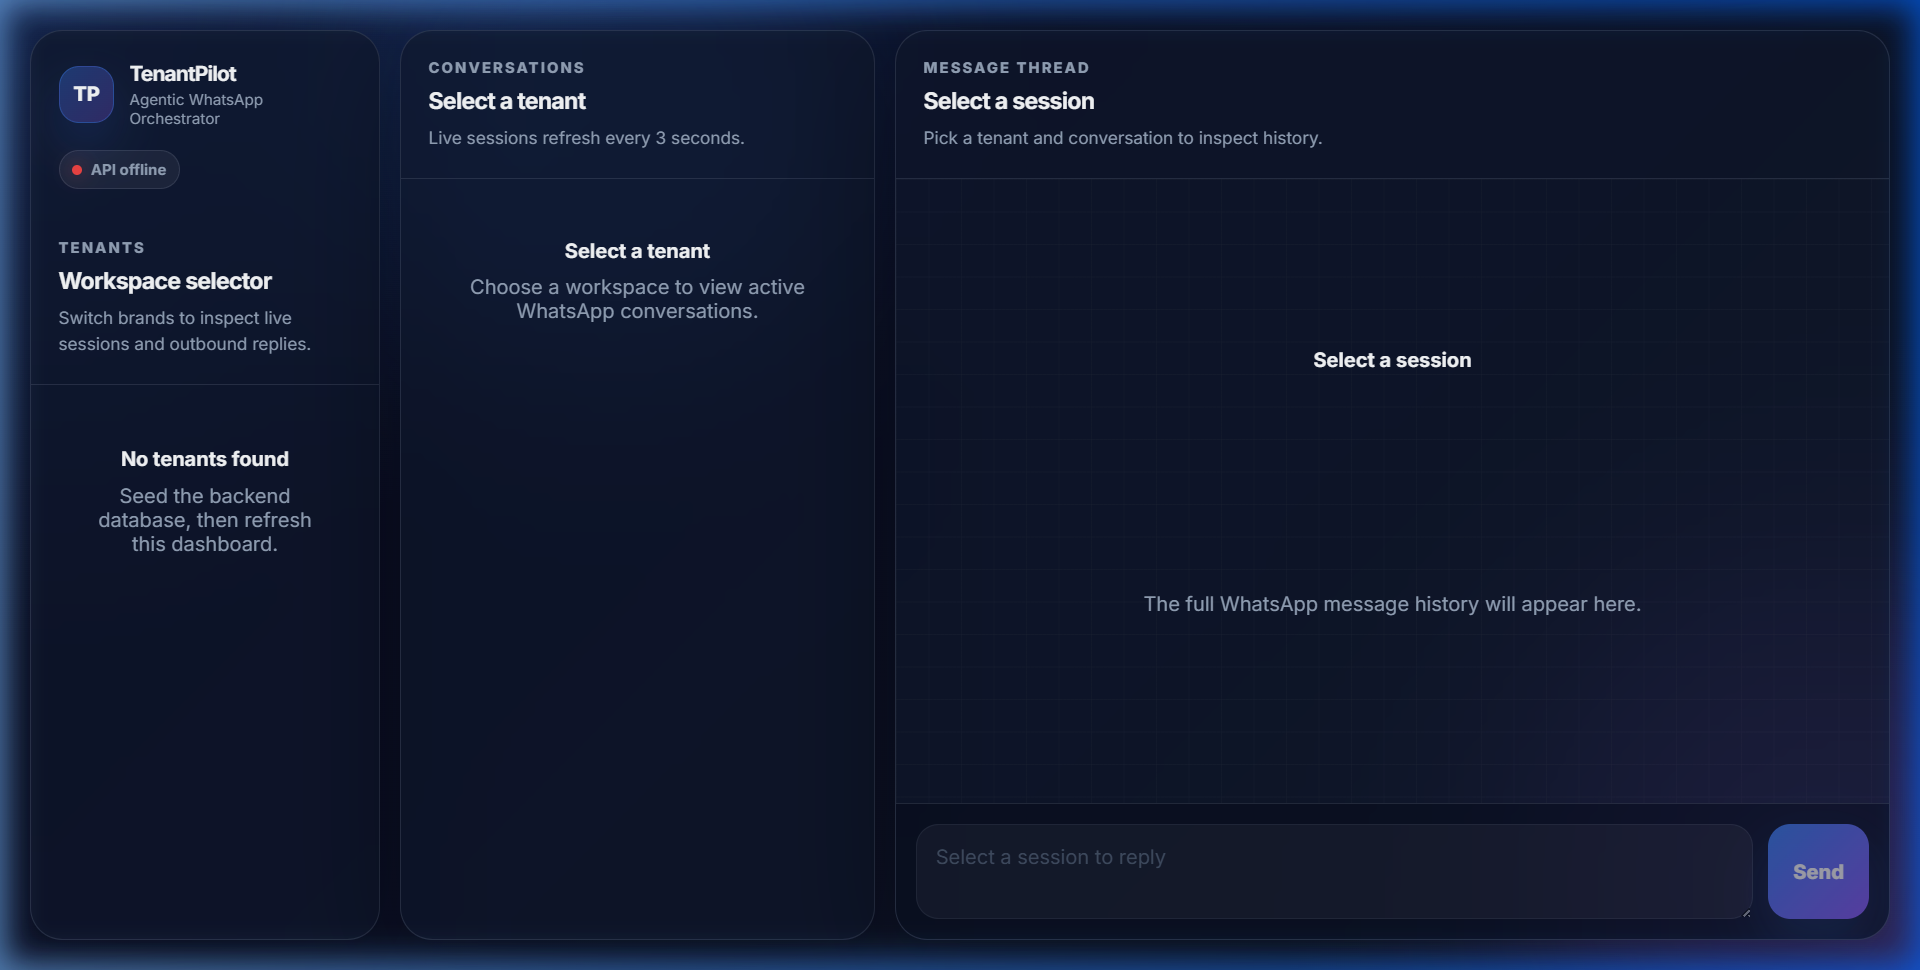
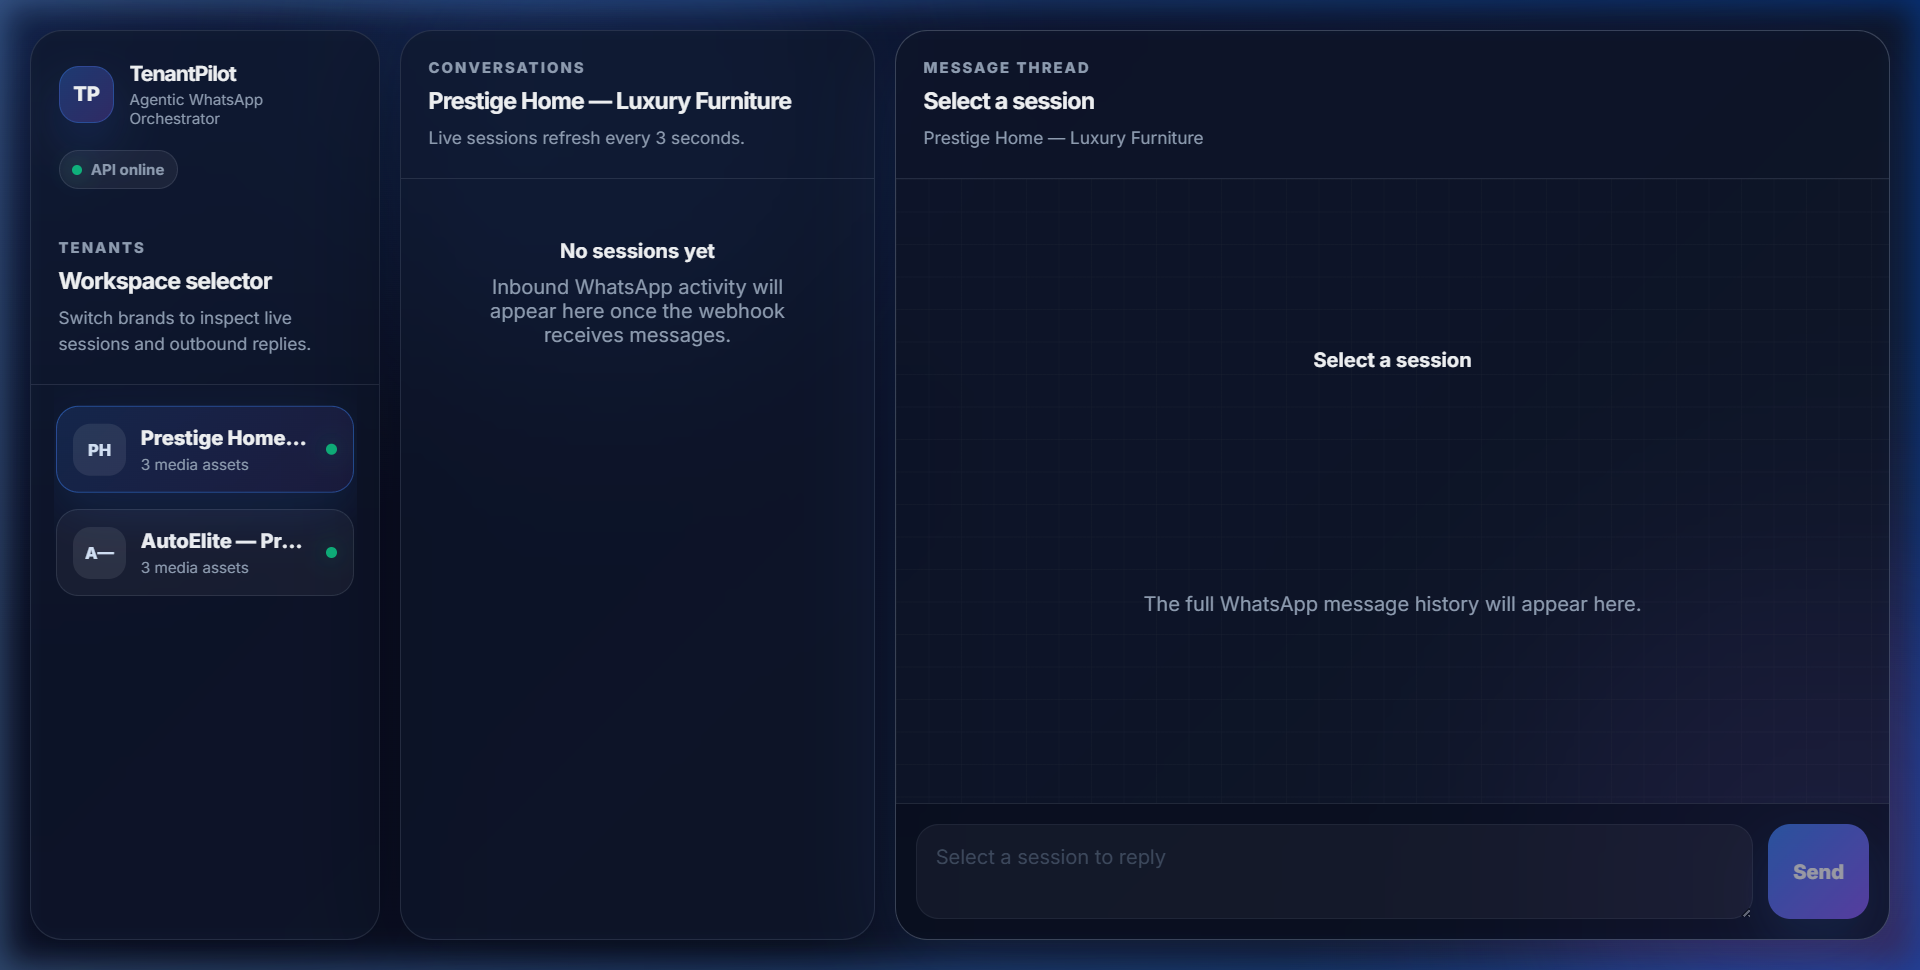
fix-mongodb-connection-and-update-readme-screenshots

diff --git a/backend/app/db.py b/backend/app/db.py
@@ -3,10 +3,12 @@ MongoDB connection and Beanie ODM initialisation.
 
 Call `init_db()` from the FastAPI lifespan handler — not at import time.
 All Beanie document models must be listed in `DOCUMENT_MODELS`.
+
+Beanie 2.x requires `pymongo.AsyncMongoClient` (not motor's AsyncIOMotorClient).
 """
 
 import logging
-from motor.motor_asyncio import AsyncIOMotorClient
+from pymongo import AsyncMongoClient
 from beanie import init_beanie
 
 from app.config import get_settings
@@ -16,8 +18,8 @@ from app.models.message_log import MessageLog
 
 logger = logging.getLogger(__name__)
 
-# Module-level motor client (set during init_db, reused across requests)
-_motor_client: AsyncIOMotorClient | None = None
+# Module-level client (set during init_db, reused across requests)
+_client: AsyncMongoClient | None = None
 
 # Ordered list of all Beanie document models that need to be registered
 DOCUMENT_MODELS = [Tenant, ChatSession, MessageLog]
@@ -25,15 +27,15 @@ DOCUMENT_MODELS = [Tenant, ChatSession, MessageLog]
 
 async def init_db() -> None:
     """
-    Initialise the Motor client and Beanie ODM.
+    Initialise the pymongo AsyncMongoClient and Beanie ODM.
     Must be called once during application startup (FastAPI lifespan).
     """
-    global _motor_client
+    global _client
     settings = get_settings()
 
     logger.info("Connecting to MongoDB: db=%s", settings.mongodb_db_name)
-    _motor_client = AsyncIOMotorClient(settings.mongodb_uri)
-    db = _motor_client[settings.mongodb_db_name]
+    _client = AsyncMongoClient(settings.mongodb_uri)
+    db = _client[settings.mongodb_db_name]
 
     await init_beanie(database=db, document_models=DOCUMENT_MODELS)
     logger.info("Beanie ODM initialised with %d document models", len(DOCUMENT_MODELS))
@@ -41,11 +43,11 @@ async def init_db() -> None:
 
 async def close_db() -> None:
     """
-    Close the Motor client gracefully.
+    Close the client gracefully.
     Must be called during application shutdown (FastAPI lifespan).
     """
-    global _motor_client
-    if _motor_client is not None:
-        _motor_client.close()
+    global _client
+    if _client is not None:
+        _client.close()
         logger.info("MongoDB connection closed")
-        _motor_client = None
+        _client = None

diff --git a/backend/app/config.py b/backend/app/config.py
@@ -3,14 +3,19 @@ Centralized configuration using pydantic-settings.
 All env vars are read from here — never use os.getenv() directly elsewhere.
 """
 
+from pathlib import Path
 from pydantic_settings import BaseSettings, SettingsConfigDict
 from pydantic import Field
 from functools import lru_cache
 
+# Project root is two levels up from this file (backend/app/config.py → project root)
+_PROJECT_ROOT = Path(__file__).resolve().parent.parent.parent
+_ENV_FILE = _PROJECT_ROOT / ".env"
+
 
 class Settings(BaseSettings):
     model_config = SettingsConfigDict(
-        env_file=".env",
+        env_file=str(_ENV_FILE),
         env_file_encoding="utf-8",
         case_sensitive=False,
         extra="ignore",

diff --git a/backend/scripts/seed_tenants.py b/backend/scripts/seed_tenants.py
@@ -21,7 +21,7 @@ import os
 # Allow running as a script from the backend/ directory
 sys.path.insert(0, os.path.join(os.path.dirname(__file__), ".."))
 
-from motor.motor_asyncio import AsyncIOMotorClient
+from pymongo import AsyncMongoClient
 from beanie import init_beanie
 
 from app.config import get_settings
@@ -110,7 +110,7 @@ async def seed():
     settings = get_settings()
     logger.info("Connecting to MongoDB: %s / %s", settings.mongodb_uri[:40] + "...", settings.mongodb_db_name)
 
-    client = AsyncIOMotorClient(settings.mongodb_uri)
+    client = AsyncMongoClient(settings.mongodb_uri)
     db = client[settings.mongodb_db_name]
 
     await init_beanie(database=db, document_models=[Tenant, ChatSession, MessageLog])

diff --git a/README.md b/README.md
@@ -92,9 +92,15 @@
 ## 🖼️ Screenshots
 
 <p align="center">
-  <img src="docs/dashboard-screenshot.png" alt="TenantPilot Dashboard - Dark Theme" width="800" />
+  <img src="docs/dashboard-screenshot.png" alt="TenantPilot Dashboard - Prestige Home Tenant" width="800" />
   <br />
-  <em>3-panel glassmorphism dashboard with real-time session monitoring</em>
+  <em>3-panel glassmorphism dashboard showing Prestige Home (Luxury Furniture) brand monitoring</em>
+</p>
+
+<p align="center">
+  <img src="docs/dashboard-autoelite.png" alt="TenantPilot Dashboard - AutoElite Tenant" width="800" />
+  <br />
+  <em>Workspace switched to AutoElite (Premium Car Care) showing its specific conversations</em>
 </p>
 
 ---